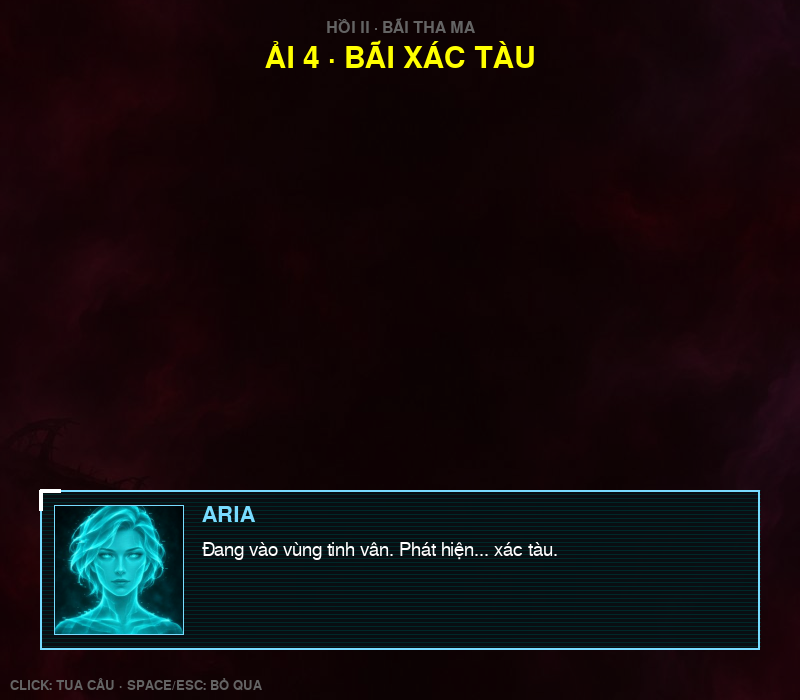
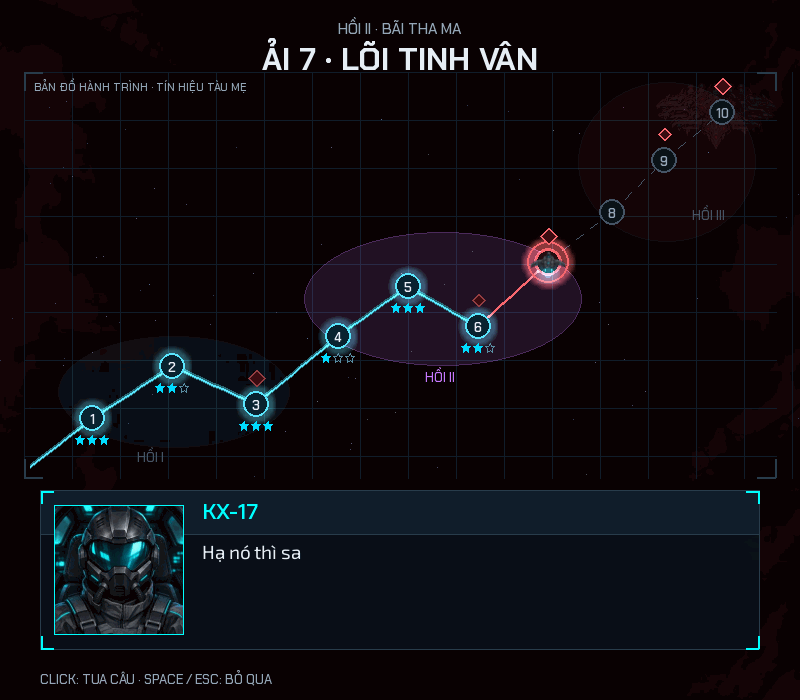
feat(cutscene): bản đồ hành trình thay màn radar, chân dung có chất tín hiệu
- ui/journey_map.py: 10 ải theo 3 hồi, trạng thái đã qua/đang tới/chưa tới, dấu
  boss, bóng Tàu Mẹ, tàu bay từ ải trước theo đường cong, bầy chấm đỏ khi "áp sát".
- Cutscene backdrop "map" cho mọi ải: nền hồi phóng to chậm + lưới chiến thuật.
- Chân dung: ARIA sọc quét/lệch dòng, Chỉ huy nhiễu hạt/chập chờn.
- Ảnh README hội thoại cập nhật; 103 test.

Claude-Session: https://claude.ai/code/session_01WVBMXqNvnUcAfxJJ2Ki9eT

diff --git a/spaceship/ui/journey_map.py b/spaceship/ui/journey_map.py
@@ -1,0 +1,211 @@
+"""Bản đồ hành trình: phông nền của đoạn hội thoại mở đầu mỗi ải (thay màn radar cũ).
+
+10 ải = 10 điểm sao chia 3 cụm theo hồi, nối bằng đường bay. Ải đã qua sáng xanh kèm số sao, ải sắp chơi
+nhấp nháy đỏ, ải chưa tới mờ. Tàu bay từ ải trước tới ải này trong ~2 giây đầu. Ải có boss gắn dấu thoi đỏ,
+ải cuối là bóng Tàu Mẹ. Câu thoại có hiệu ứng "radar" làm hiện một bầy chấm đỏ áp sát điểm ải hiện tại.
+
+Chỉ dùng ``random`` riêng cho phần trang trí: không đụng RNG của trận đấu.
+"""
+from __future__ import annotations
+
+import math
+import random
+from typing import Dict, List, Optional, Tuple
+
+import pygame
+
+from spaceship.campaign.levels import LEVELS
+from spaceship.config import HEIGHT, WIDTH
+from spaceship.ui import glow
+from spaceship.ui.widgets import ACCENT, DANGER, FRAME, MUTED, TEXT, draw_star
+
+#: Toạ độ 10 ải: từ dưới-trái (vành đai) đi lên trên-phải (Tàu Mẹ). Nằm giữa tiêu đề (trên) và khung thoại (dưới).
+NODES: Dict[int, Tuple[int, int]] = {
+    1: (92, 418), 2: (172, 366), 3: (256, 404),
+    4: (338, 336), 5: (408, 286), 6: (478, 326), 7: (548, 262),
+    8: (612, 212), 9: (664, 160), 10: (722, 112),
+}
+ACT_COLORS = {1: (90, 200, 255), 2: (200, 120, 255), 3: (255, 110, 110)}
+ACT_LABELS = {1: ("HỒI I", (150, 456)), 2: ("HỒI II", (440, 376)), 3: ("HỒI III", (708, 214))}
+START = (30, 466)                     # ải 1: tàu bay vào từ mép bản đồ
+TRAVEL_TICKS = 130
+CLEARED = (90, 230, 255)
+LOCKED = (70, 84, 102)
+
+
+def _ease(t: float) -> float:
+    t = max(0.0, min(1.0, t))
+    return t * t * (3 - 2 * t)
+
+
+class JourneyMap:
+    def __init__(self, level_number: int, stars: Dict[int, int]) -> None:
+        self.level = level_number
+        self.stars = dict(stars)
+        self.ticks = 0
+        self.blips: List[List[float]] = []
+        rnd = random.Random(level_number)
+        self.dust = [(rnd.randint(0, WIDTH), rnd.randint(70, HEIGHT - 220), rnd.random()) for _ in range(70)]
+
+    # --- Trạng thái --------------------------------------------------------------------
+    @property
+    def origin(self) -> Tuple[float, float]:
+        return NODES[self.level - 1] if self.level > 1 else START
+
+    @property
+    def ship_pos(self) -> Tuple[float, float]:
+        k = _ease(self.ticks / TRAVEL_TICKS)
+        (x0, y0), (x1, y1) = self.origin, NODES[self.level]
+        # bay theo đường cong nhẹ (nhô lên giữa đường) cho tự nhiên
+        lift = math.sin(k * math.pi) * 26
+        return x0 + (x1 - x0) * k, y0 + (y1 - y0) * k - lift
+
+    @property
+    def arrived(self) -> bool:
+        return self.ticks >= TRAVEL_TICKS
+
+    def contacts(self) -> None:
+        """Hiệu ứng 'nhiều mục tiêu áp sát': bầy chấm đỏ quây quanh điểm ải hiện tại."""
+        cx, cy = NODES[self.level]
+        self.blips = [[min(WIDTH - 36, max(36, cx + math.cos(a) * r)),
+                       min(HEIGHT - 232, max(84, cy + math.sin(a) * r * 0.7)), random.uniform(0.4, 0.9)]
+                      for a, r in ((random.uniform(0, math.tau), random.uniform(70, 130)) for _ in range(16))]
+
+    def update(self) -> None:
+        self.ticks += 1
+        cx, cy = NODES[self.level]
+        for blip in self.blips:                       # tiến dần về phía điểm ải
+            dx, dy = cx - blip[0], cy - blip[1]
+            dist = math.hypot(dx, dy)
+            if dist > 34:
+                blip[0] += dx / dist * blip[2]
+                blip[1] += dy / dist * blip[2]
+
+    # --- Vẽ ----------------------------------------------------------------------------
+    def draw(self, surface: pygame.Surface, assets) -> None:
+        t = self.ticks
+        for x, y, k in self.dust:                    # bụi sao lấp lánh
+            c = int(60 + 80 * (0.5 + 0.5 * math.sin(t * 0.03 + k * 9)) * k)
+            surface.set_at((x, y), (c, c, min(255, c + 30)))
+        self._draw_acts(surface, assets)
+        self._draw_routes(surface)
+        self._draw_mothership(surface, assets)
+        for number in NODES:
+            self._draw_node(surface, assets, number)
+        self._draw_blips(surface)
+        self._draw_ship(surface, assets)
+
+    def _draw_acts(self, surface, assets) -> None:
+        for act, (label, pos) in ACT_LABELS.items():
+            numbers = [lv.number for lv in LEVELS if lv.act == act]
+            xs = [NODES[n][0] for n in numbers]
+            ys = [NODES[n][1] for n in numbers]
+            area = pygame.Rect(min(xs) - 34, min(ys) - 30, max(xs) - min(xs) + 68, max(ys) - min(ys) + 60)
+            active = any(n == self.level for n in numbers)
+            color = ACT_COLORS[act] if active else LOCKED
+            halo = pygame.Surface(area.size, pygame.SRCALPHA)
+            pygame.draw.ellipse(halo, (*ACT_COLORS[act], 34 if active else 14), halo.get_rect())
+            pygame.draw.ellipse(halo, (*color, 90 if active else 40), halo.get_rect(), 1)
+            surface.blit(halo, area)
+            text = assets.text(label, 13, color, role="label")
+            surface.blit(text, text.get_rect(center=pos))
+
+    def _segment(self, surface, a, b, color, dashed: bool, progress: float = 1.0, width: int = 2) -> None:
+        (x0, y0), (x1, y1) = a, b
+        length = math.hypot(x1 - x0, y1 - y0)
+        steps = max(1, int(length / 9))
+        last = int(steps * progress)
+        for i in range(last):
+            if dashed and i % 2:
+                continue
+            p0 = (x0 + (x1 - x0) * i / steps, y0 + (y1 - y0) * i / steps)
+            p1 = (x0 + (x1 - x0) * (i + 1) / steps, y0 + (y1 - y0) * (i + 1) / steps)
+            pygame.draw.line(surface, color, p0, p1, width)
+
+    def _draw_routes(self, surface) -> None:
+        points = [START] + [NODES[n] for n in sorted(NODES)]
+        for i in range(len(points) - 1):
+            target = i + 1                          # số ải ở đầu cuối đoạn này
+            a, b = points[i], points[i + 1]
+            if target < self.level:
+                self._segment(surface, a, b, glow.scale(CLEARED, 0.45), False, width=5)
+                self._segment(surface, a, b, CLEARED, False)
+            elif target == self.level:
+                self._segment(surface, a, b, LOCKED, True)
+                self._segment(surface, a, b, DANGER, False, _ease(self.ticks / TRAVEL_TICKS), 3)
+            else:
+                self._segment(surface, a, b, LOCKED, True, width=1)
+
+    def _draw_mothership(self, surface, assets) -> None:
+        image = assets.image("mothership_boss", 120)
+        if image is None:
+            return
+        ghost = image.copy()
+        ghost.set_alpha(120 if self.level == 10 else 55)
+        x, y = NODES[10]
+        surface.blit(ghost, ghost.get_rect(center=(x - 6, y + 4)))     # bóng Tàu Mẹ phía sau điểm ải 10
+
+    def _draw_node(self, surface, assets, number: int) -> None:
+        x, y = NODES[number]
+        level = LEVELS[number - 1]
+        current = number == self.level
+        cleared = not current and (number < self.level or number in self.stars)
+        if current:
+            pulse = 0.5 + 0.5 * math.sin(self.ticks * 0.12)
+            glow.add(surface, glow.orb(glow.scale(DANGER, 0.5 + 0.5 * pulse), 14, core=0.0), (x, y))
+            pygame.draw.circle(surface, DANGER, (x, y), int(17 + 5 * pulse), 2)
+            color, fill = DANGER, (40, 10, 16)
+        elif cleared:
+            glow.add(surface, glow.orb(glow.scale(CLEARED, 0.6), 10, core=0.0), (x, y))
+            color, fill = CLEARED, (10, 34, 48)
+        else:
+            color, fill = LOCKED, (12, 16, 24)
+        pygame.draw.circle(surface, fill, (x, y), 13)
+        pygame.draw.circle(surface, color, (x, y), 13, 2)
+        label = assets.text(str(number), 13, TEXT if (current or cleared) else MUTED, role="ui")
+        surface.blit(label, label.get_rect(center=(x, y + 1)))
+        if level.boss:                              # ải có boss: dấu thoi đỏ phía trên
+            size = 6 if level.boss in ("nest", "cruiser") else 8
+            top = (x, y - 26)
+            diamond = [(top[0], top[1] - size), (top[0] + size, top[1]), (top[0], top[1] + size), (top[0] - size, top[1])]
+            pygame.draw.polygon(surface, (60, 12, 18), diamond)
+            pygame.draw.polygon(surface, DANGER if not cleared else glow.scale(DANGER, 0.6), diamond, 2)
+        if cleared:
+            count = self.stars.get(number, 0)
+            for s in range(3):
+                draw_star(surface, (x - 12 + s * 12, y + 22), 5, s < count)
+
+    def _draw_blips(self, surface) -> None:
+        for x, y, _ in self.blips:
+            if (self.ticks // 6 + int(x)) % 3:
+                glow.add(surface, glow.orb(DANGER, 3, core=0.5), (x, y))
+
+    def _draw_ship(self, surface, assets) -> None:
+        x, y = self.ship_pos
+        (x0, y0), (x1, y1) = self.origin, NODES[self.level]
+        angle = math.degrees(math.atan2(-(y1 - y0), x1 - x0)) - 90
+        if not self.arrived:                          # vệt động cơ khi đang bay
+            for i in range(1, 6):
+                k = self.ticks / TRAVEL_TICKS - i * 0.03
+                if k > 0:
+                    px = x0 + (x1 - x0) * _ease(k)
+                    py = y0 + (y1 - y0) * _ease(k) - math.sin(_ease(k) * math.pi) * 26
+                    glow.add(surface, glow.orb(glow.scale(ACCENT, 0.5 - i * 0.08), 3, core=0.0), (px, py))
+        sprite = assets.image("player", 34)
+        if sprite is None:
+            pygame.draw.polygon(surface, ACCENT, [(x, y - 10), (x - 8, y + 8), (x + 8, y + 8)])
+            return
+        rotated = pygame.transform.rotozoom(sprite, angle if not self.arrived else 0, 1)
+        glow.add(surface, glow.orb(glow.scale(ACCENT, 0.5), 6, core=0.0), (x, y + 10))
+        surface.blit(rotated, rotated.get_rect(center=(int(x), int(y))))
+
+
+def draw_frame(surface: pygame.Surface, assets, title: Optional[str] = None) -> None:
+    """Khung "màn hình chiến thuật" quanh bản đồ: viền góc + nhãn nhỏ."""
+    area = pygame.Rect(24, 72, WIDTH - 48, HEIGHT - 72 - 222)
+    length = 18
+    for x, dx in ((area.left, 1), (area.right - 1, -1)):
+        for y, dy in ((area.top, 1), (area.bottom - 1, -1)):
+            pygame.draw.lines(surface, FRAME, False, ((x + dx * length, y), (x, y), (x, y + dy * length)), 2)
+    if title:
+        surface.blit(assets.text(title, 11, MUTED, role="label"), (area.x + 10, area.y + 6))

diff --git a/tests/test_cycle.py b/tests/test_cycle.py
@@ -98,3 +98,31 @@ class CycleGameTest(unittest.TestCase):
 
 if __name__ == "__main__":
     unittest.main()
+
+
+class JourneyMapTest(unittest.TestCase):
+    def test_every_level_intro_shows_map_and_ship_arrives(self):
+        from spaceship.input.controls import ControlState
+
+        folder = Path(tempfile.mkdtemp())
+        game = Game(camera=False, seed=1, save=SaveData.load(folder / "save.json"),
+                    settings=Settings(path=folder / "settings.json"))
+        game.calibrated = True
+        for number in range(1, LEVEL_COUNT + 1):
+            start_level(game, number)
+            game._apply_pending_scene()
+            intro = game.scene
+            self.assertIsInstance(intro, CutsceneScene)
+            self.assertIsNotNone(intro.journey)
+            for _ in range(160):
+                intro.update(ControlState())
+            intro.draw(game.screen)
+            self.assertTrue(intro.journey.arrived)
+        start_level(game, 1)
+        game._apply_pending_scene()
+        intro = game.scene
+        for _ in range(60 * 30):                                 # tới câu thoại "nhiều mục tiêu áp sát"
+            intro.update(ControlState())
+            if intro.journey.blips or game.scene is not intro:
+                break
+        self.assertTrue(intro.journey.blips)

diff --git a/spaceship/scenes/flow.py b/spaceship/scenes/flow.py
@@ -25,13 +25,13 @@ def start_level(game, number: int, loadout: Optional[dict] = None) -> None:
         return GameplayScene(game, GameMode.CAMPAIGN, number, loadout)
 
     def intro():
-        backdrop = "radar" if number == 1 else level.background
         cycle = game.save.cycle
         script = list(story.INTROS[number])
         if number == 1 and cycle > 1:
             script = story.cycle_intro(cycle) + script
         subtitle = story.ACTS[level.act] + (f" · {story.cycle_label(cycle)}" if cycle > 1 else "")
-        return CutsceneScene(game, script, play, backdrop=backdrop, title=level.title, subtitle=subtitle)
+        return CutsceneScene(game, script, play, backdrop="map", title=level.title, subtitle=subtitle,
+                             level_number=number, background=level.background)
 
     _with_calibration(game, intro)
 

diff --git a/README.md b/README.md
@@ -7,7 +7,7 @@
   <img src="https://img.shields.io/badge/Python-3.10–3.13-3776AB?style=flat-square&logo=python&logoColor=white" alt="Python">
   <img src="https://img.shields.io/badge/pygame-2.5+-2b9348?style=flat-square" alt="pygame">
   <img src="https://img.shields.io/badge/MediaPipe-Hands-4285F4?style=flat-square&logo=google&logoColor=white" alt="MediaPipe">
-  <img src="https://img.shields.io/badge/test-102_passed-success?style=flat-square" alt="Test">
+  <img src="https://img.shields.io/badge/test-103_passed-success?style=flat-square" alt="Test">
 </p>
 
 <p align="center">
@@ -61,7 +61,7 @@
 | **Âm thanh sống động** | 25 hiệu ứng CC0 + tiếng tổng hợp (còi boss, giọng gõ chữ riêng từng nhân vật); nhạc riêng cho từng hồi, chuyển bài mượt, tự nhỏ lại khi có hội thoại; chỉnh âm lượng nhạc và hiệu ứng riêng. |
 | **Đồ họa phát sáng** | Đạn neon, vụ nổ có sóng xung kích, địch nháy khi trúng đạn, nền cuộn theo từng hồi. |
 | **Có chiều sâu** | 4 súng, mỗi súng một dạng tối thượng ở cấp 6 và một kỹ năng Nộ riêng; 3 mức độ khó; chấm 1–3 sao mỗi ải. |
-| **Mã nguồn sạch, có test** | Chia module rõ ràng, dữ liệu ải tách khỏi logic, 102 test tự động, có bot tự chơi hết chiến dịch. |
+| **Mã nguồn sạch, có test** | Chia module rõ ràng, dữ liệu ải tách khỏi logic, 103 test tự động, có bot tự chơi hết chiến dịch. |
 
 ## Cốt truyện
 

diff --git a/CHANGELOG.md b/CHANGELOG.md
@@ -1,5 +1,14 @@
 # Changelog
 
+## [2.1.0-dev] – Bản đồ hành trình (thay màn radar)
+- Đoạn hội thoại mở đầu **mọi ải** dùng **bản đồ hành trình** (`ui/journey_map.py`): 10 ải là 10 điểm sao chia
+  3 cụm theo hồi; ải đã qua sáng xanh kèm sao, ải sắp chơi nhấp nháy đỏ, ải chưa tới mờ; dấu thoi đỏ ở ải có
+  boss; bóng Tàu Mẹ sau ải 10. Tàu bay từ ải trước tới ải này theo đường cong. Nền là ảnh của hồi phóng to chậm
+  + lưới chiến thuật. Câu "nhiều mục tiêu áp sát" làm hiện bầy chấm đỏ quây quanh điểm ải.
+- Chân dung có "chất tín hiệu" theo người nói: ARIA (AI) sọc quét + thỉnh thoảng lệch dòng; Chỉ huy (ở xa) nhiễu hạt,
+  chập chờn; KX-17 hình sạch.
+- 1 test mới (mọi ải có bản đồ, tàu bay tới nơi, bầy chấm đỏ hiện đúng câu thoại), tổng 103.
+
 ## [2.1.0-dev] – Đạn đẹp hơn, drone có ích
 - **Tia Sét** vẽ lại: quầng sáng cộng sáng, thân vàng lõi trắng, 1-2 nhánh rẽ xanh điện, rung nhấp nháy, chớp sáng ở
   điểm trúng; tồn tại lâu hơn (10 tick) nên nhìn thấy liên tục. Bão Sét và màn Hướng dẫn dùng chung kiểu mới.
